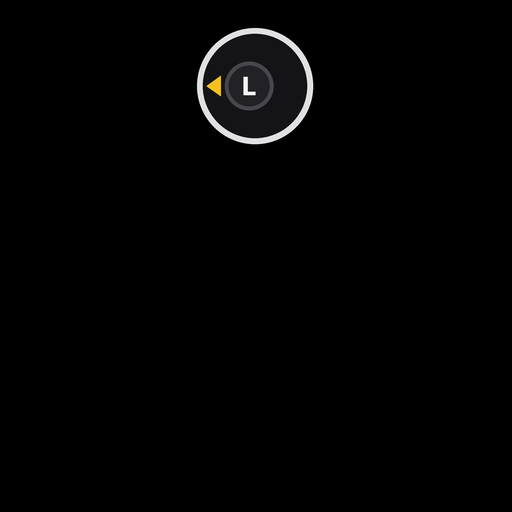
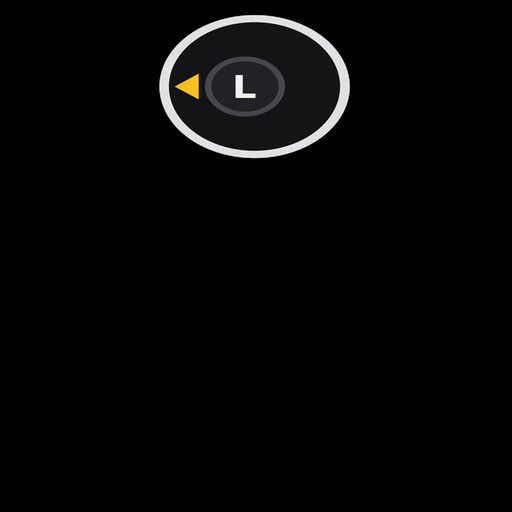
Excitebots round 26: red bar 5.0x; the legs hint really shows the stick
A texture switching from one replacement copy to another was never uploaded
again, so the running legs kept the first frame's A. Re-upload whenever the
copy changes, and draw the legs stick larger and round with its own mask.

Claude-Session: https://claude.ai/code/session_018VRVMcjNQVgVxKRnKdEpiQ

Changed region(s): [[0.3125, 0.0312, 0.6875, 0.3125]]

diff --git a/tools/prompts/make_eb_pack.py b/tools/prompts/make_eb_pack.py
@@ -89,11 +89,19 @@ def build(scale):
     out["tex1_256x256_ddf1c663d39c4ad2_14.png"] = c.result()
     out["tex1_256x256_aa8407612f74e6ba_0.png"] = circle_mask(256, 256, scale, cx - r, cy - r, cx + r, cy + r)
     # The running legs show the same prompt, rocked from side to side; there the runtime keeps it
-    # level and swaps in marked copies of the stick pushed left and right in turn (same disc mask).
+    # level and swaps in marked copies: the stick pushed left and right in turn, a quarter larger
+    # than the bar's and drawn 4/3 wide to come out round (the sprite is 3/4 as wide as its
+    # texture), with a mask of its own.
+    lry = r * 1.25
+    lrx = lry * 4.0 / 3.0
     for name, dx in (("49b333bdb3a063e7", -1), ("7eda6285ba2b775e", 1)):
-        c = Canvas(256, 256, scale, (0, 0, 0, 255))
-        stick(c, cx, cy, r, dx, 0)
-        out[f"tex1_256x256_{name}_14.png"] = c.result()
+        s = Canvas(64, 64, scale * 2, (0, 0, 0, 0))
+        stick(s, 32, 32, 31.5, dx, 0)
+        im = Image.new("RGBA", (256 * scale, 256 * scale), (0, 0, 0, 255))
+        face = s.result().resize((round(2 * lrx * scale), round(2 * lry * scale)), Image.LANCZOS)
+        im.paste(face, (round((cx - lrx) * scale), round((cy - lry) * scale)), face)
+        out[f"tex1_256x256_{name}_14.png"] = im
+    out["tex1_256x256_08dd7b3f17a9c1e8_0.png"] = circle_mask(256, 256, scale, cx - lrx, cy - lry, cx + lrx, cy + lry)
     # On a bar the runtime keeps that sprite still and swaps its texture and mask for marked
     # copies, four sizes of the A button in turn (big, smaller, smallest and pressed, smaller), so
     # the hint shrinks and grows in place. The sprite is drawn 3/4 as wide as its texture, so the

diff --git a/docs/excitebots-notes.md b/docs/excitebots-notes.md
@@ -113,7 +113,7 @@ differs from Mario Kart's map only their entry point (`align.py` checks the size
   bytes). A red bar is also recognised from the helper's state (+8: 1 free, 2 near a bar, 4
   swinging), in case a race draws other meter art than the contests' 78583d305e906e63. The
   round 18 "regression" at 8x was most likely this, so round 22 tries 8x again; round 23
-  (Chris: "another 15%"): 6.8x; round 24 (Chris: "another 10"): 6.1x; round 25 (another 10%): 5.5x.
+  (Chris: "another 15%"): 6.8x; round 24 (Chris: "another 10"): 6.1x; round 25 (another 10%): 5.5x; round 26 (another 10%): 5.0x.
 - Running legs (round 21, Chris: control them like the Wii Remote, with the stick side to side):
   on a non-crash shake prompt the remote's side-to-side rock follows the stick (past a third of
   the way is a full rock); A held still rocks at full speed (dentures); a still stick no longer
@@ -124,7 +124,12 @@ differs from Mario Kart's map only their entry point (`align.py` checks the size
   gas is left alone, and the hint is kept level and swapped for the stick pushed left / right
   (marked copies EBlegsL0/EBlegsR0, pack hashes 49b333bdb3a063e7 / 7eda6285ba2b775e, twice a
   second). Tested at `@leg_combo_minigame` (fiji_leg.trk) with `WC_EB_TEST_STICK=1`: the bot,
-  stuck before, runs. Trace with `WC_EB_TRACE_TURNS`. The hint is crash recovery's A, recorded from the game (it bounces down
+  stuck before, runs. Round 26 (Chris: the walk still showed A): the texture upload only
+  noticed a switch between guest memory and a copy, not between two copies, so the first
+  frame's A copy stayed on screen; it now re-uploads whenever the copy changes (which also lets
+  the bar hint's A sizes actually alternate). The legs stick is drawn a quarter larger and 4/3
+  wide (round on screen) with its own mask (EBlegsM0, 08dd7b3f17a9c1e8). Trace with
+  `WC_EB_TRACE_TURNS`. The hint is crash recovery's A, recorded from the game (it bounces down
   by about half its height and back twice every 0.55 s, pressed at the bottom), played twice as
   fast (`RedHintBounce`, `WC_EB_HINT_DROP` sprite units, default 17). On a yellow
   (vertical) bar one press of A is a forward thrust, which lets go about 0.7 s later; the game's
